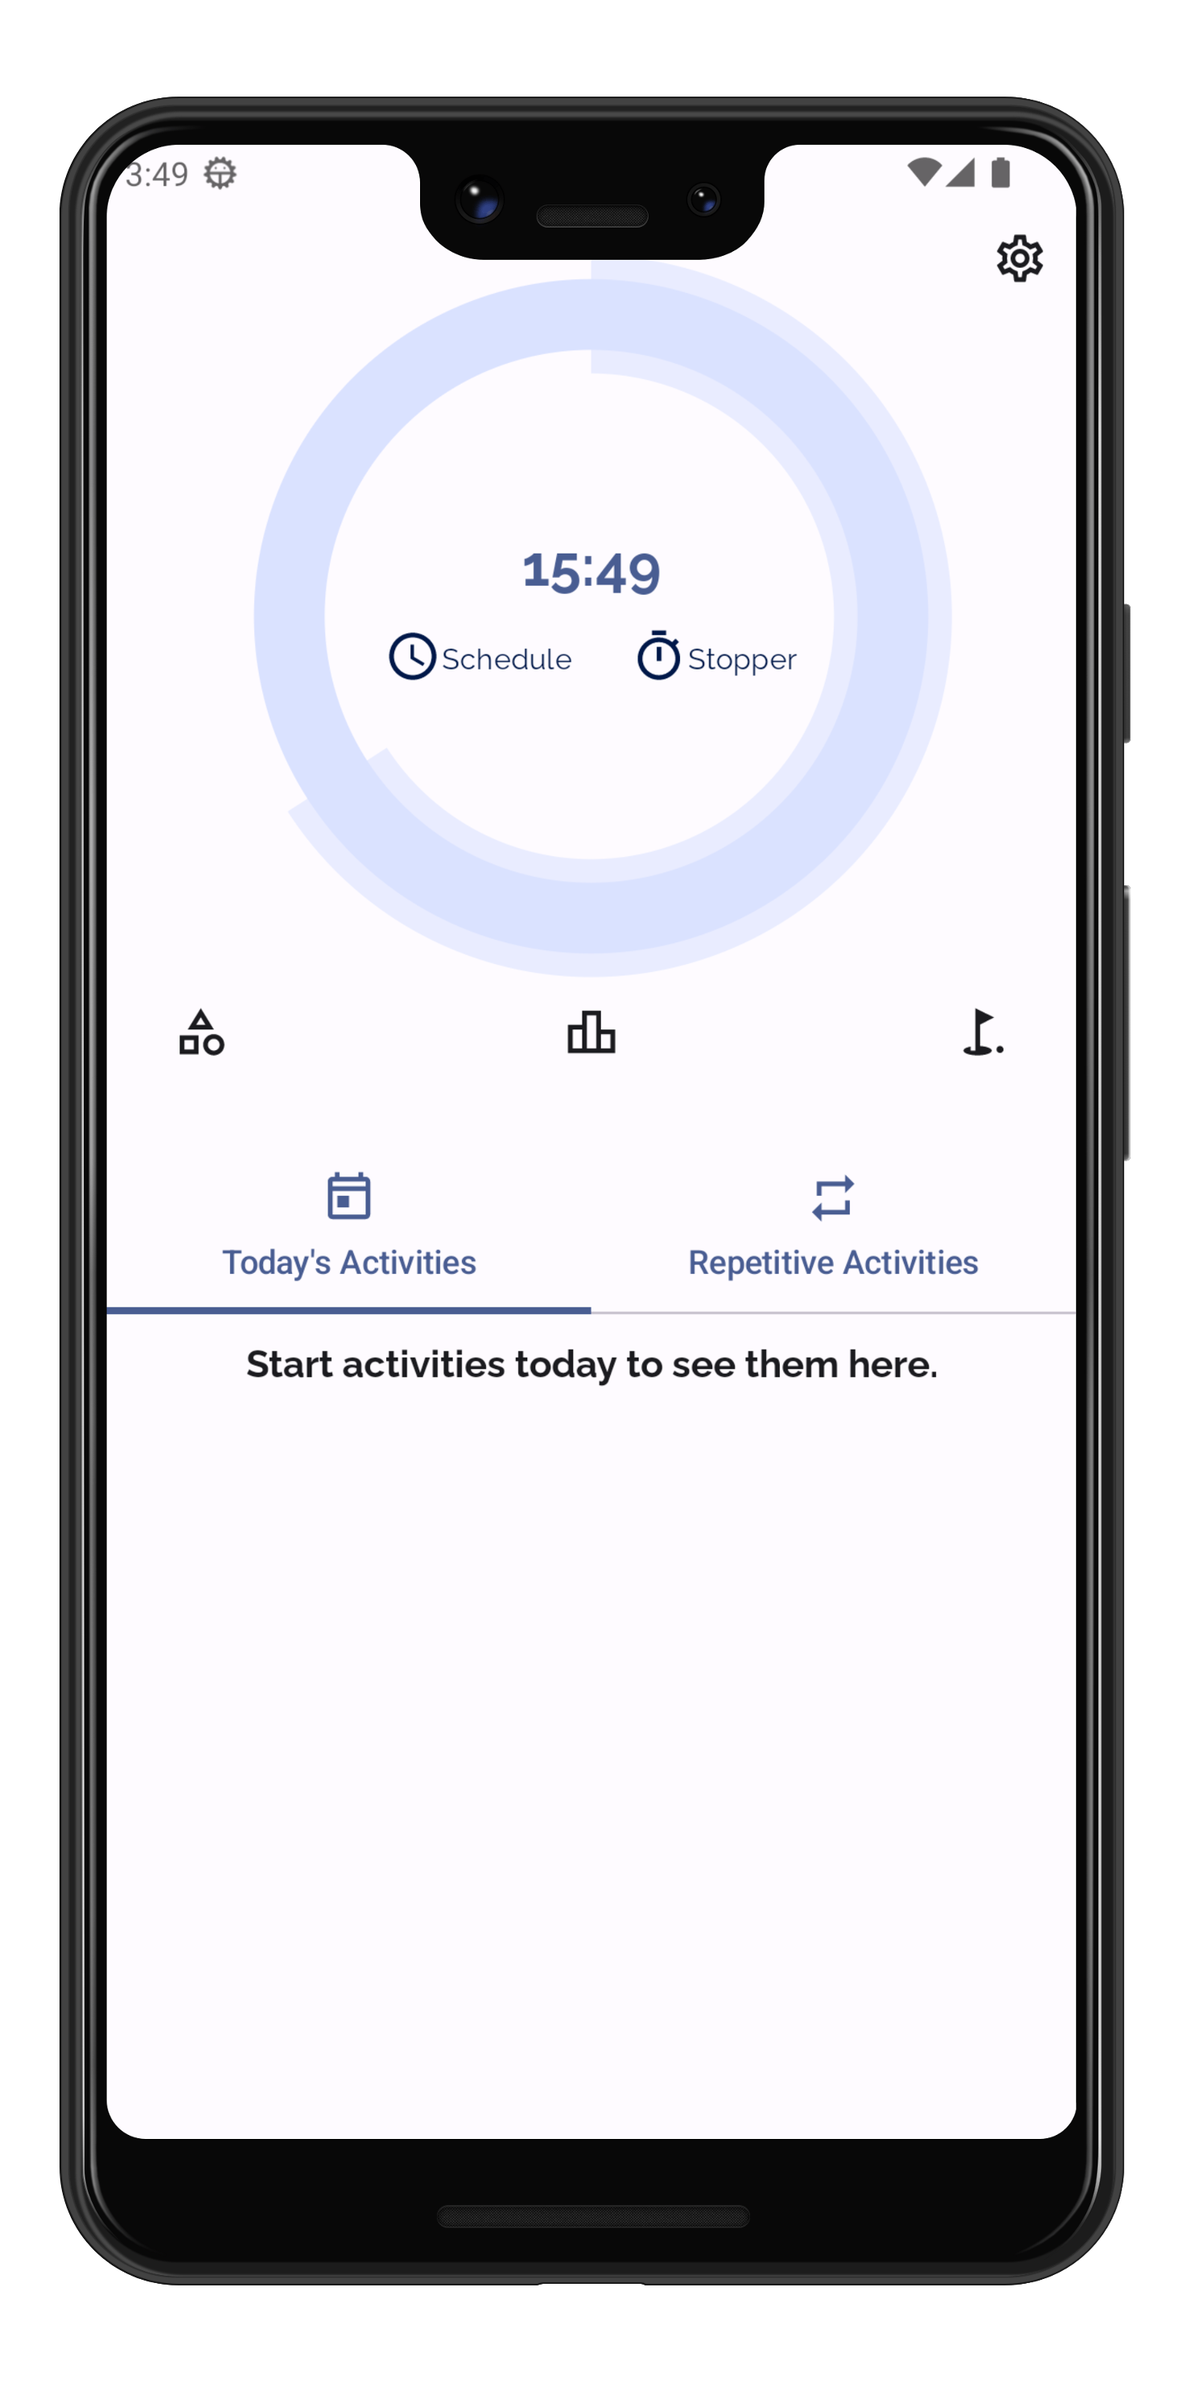
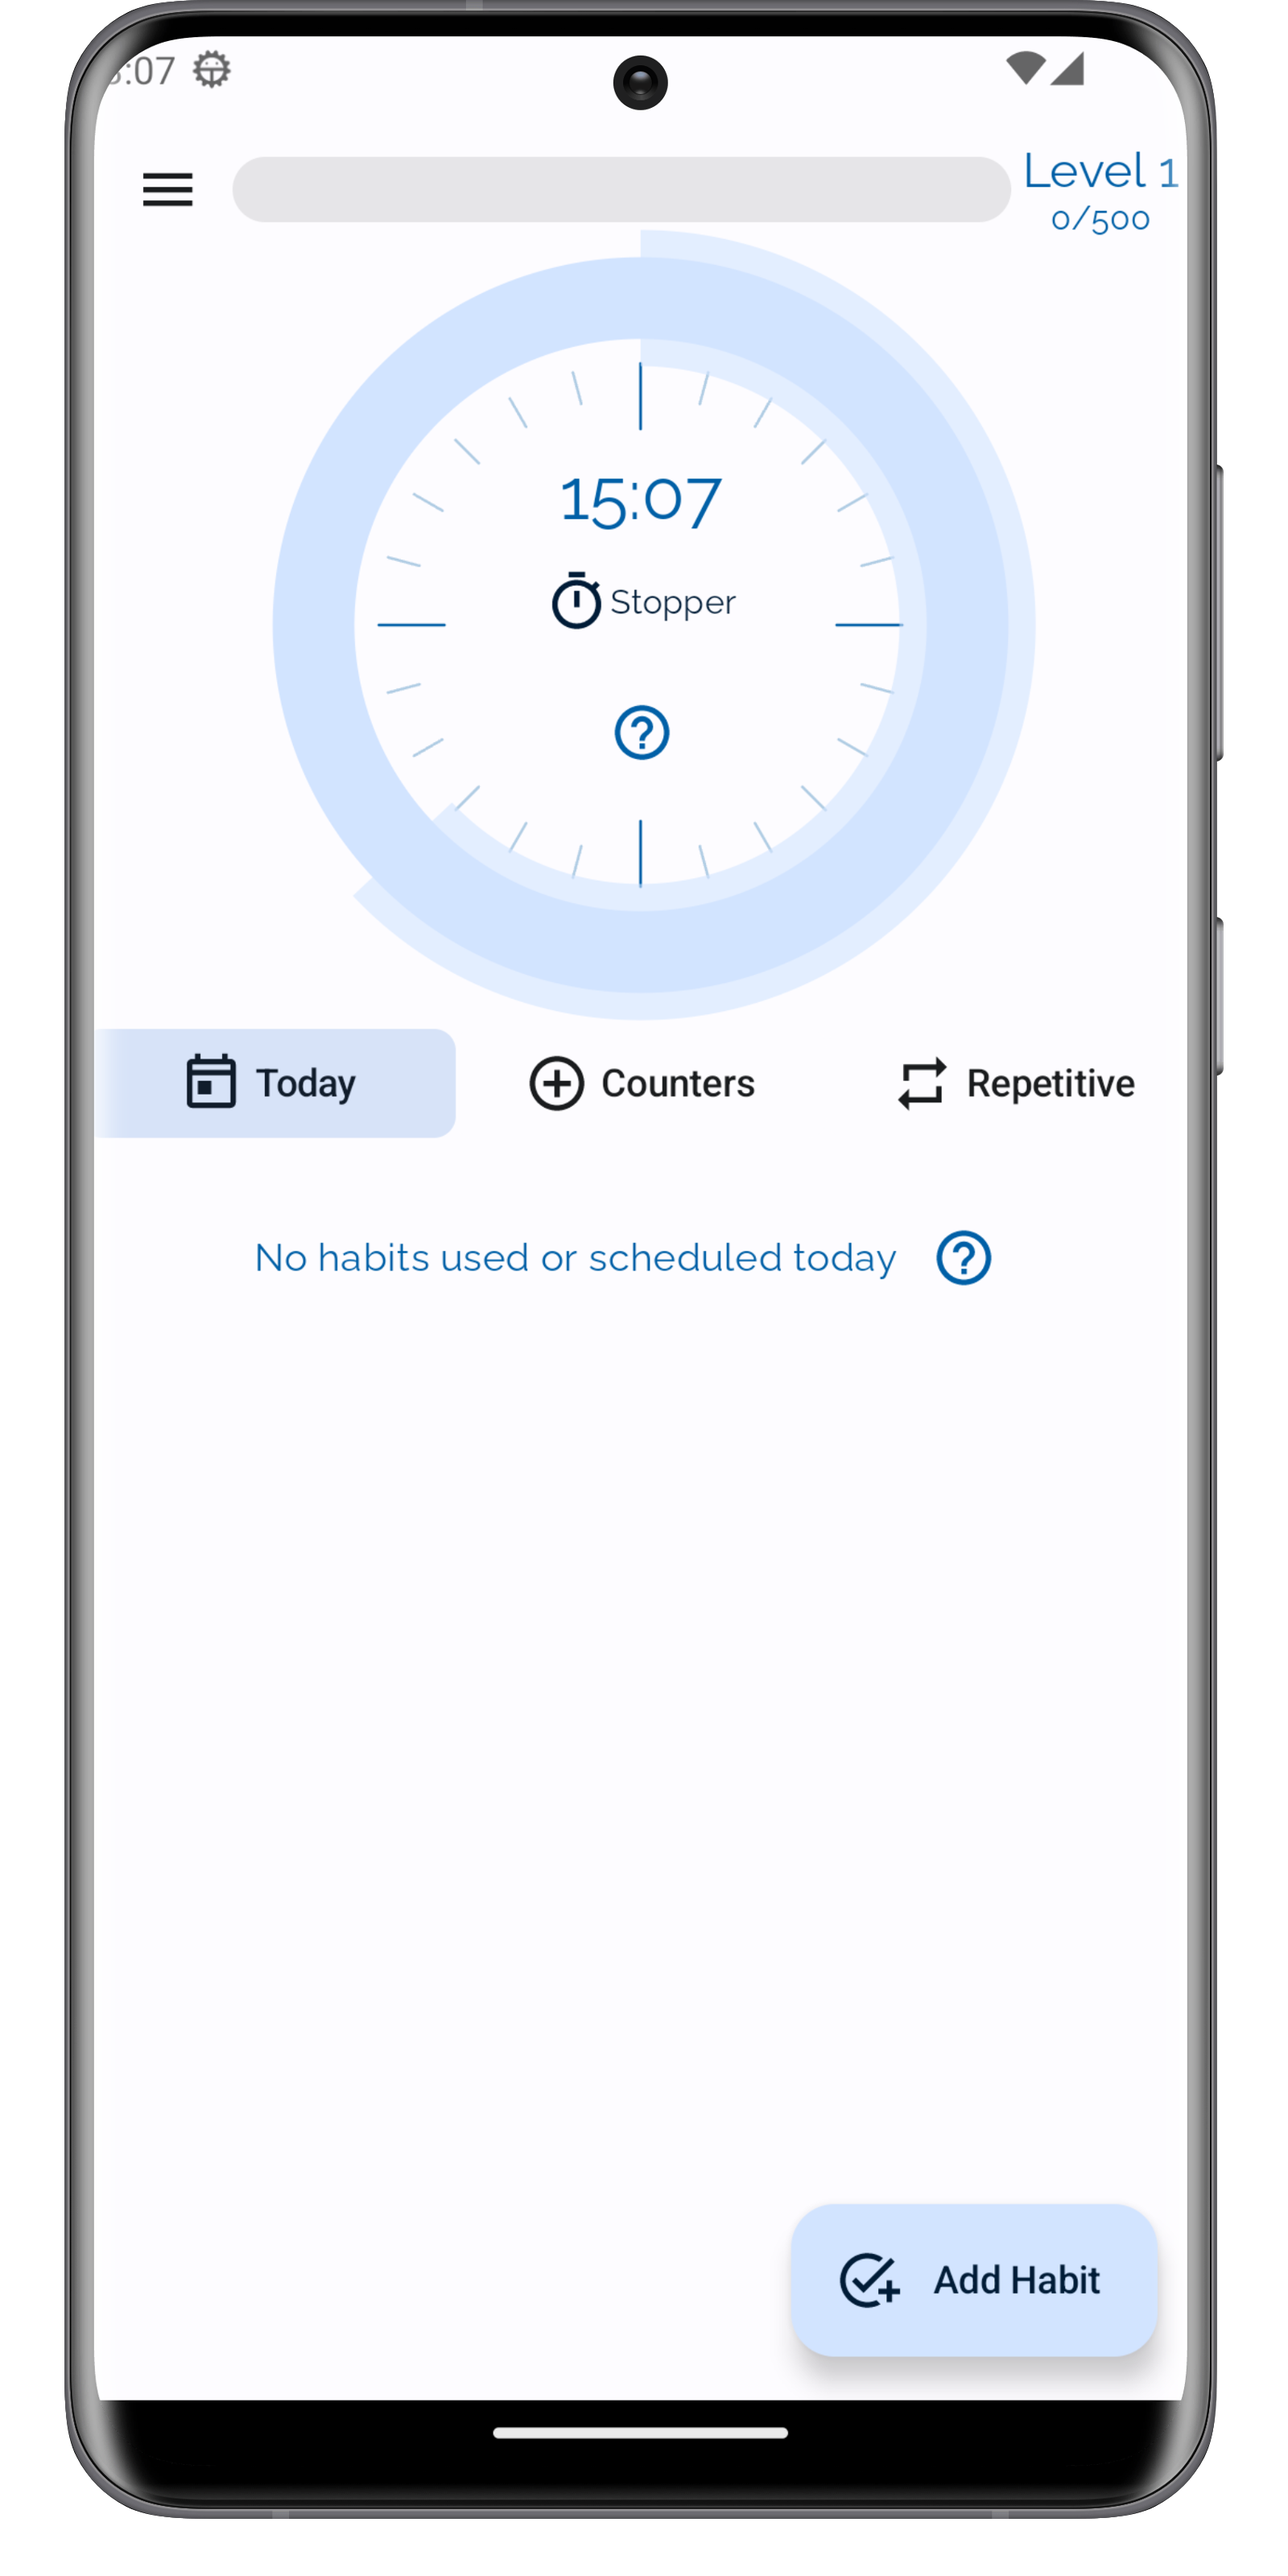
mooncrest v3.3

diff --git a/src/components/Projects.jsx b/src/components/Projects.jsx
@@ -3,61 +3,77 @@ import * as React from 'react';
 import { Stack } from '@mui/system';
 import { Avatar, Typography } from '@mui/material';
 import { useTheme } from '@emotion/react';
-import PDPIcon from '../assets/pdp_icon.png'
-import PDPScreenshot from '../assets/screenshot.png'
 import Kotlin from '../assets/kotlin_icon.png'
-import Firebase from '../assets/firebase.png'
 import TFHIcon from '../assets/twentyfourhours_icon.png'
 import TFHScreenshot from '../assets/tfh_screenshot.png'
+import ProductiveScreenshot from '../assets/productive_screenshot.png'
+import ProductiveIcon from '../assets/productive_icon.png'
 import Database from '../assets/database.png'
+import Firebase from '../assets/firebase.png'
 import Compose from '../assets/compose_icon.png'
+import YouTube from 'react-youtube';
 
 const Projects = () =>{
     const theme = useTheme();
     return(
-        <Stack direction={"column"}  display="flex" mt={10}  id="Projects">
+        <Stack direction={"column"}  display="flex" mt={10}  id="Projects"  alignItems="center" alignSelf={"center"}> 
             <Fade top>
                 <Typography color={theme.palette.primary.onPrimary} variant="h2" sx={{fontWeight: 'bold'}} align="center">
                     My Projects
                 </Typography>
             </Fade>
-            <Stack direction={{xs:"column", md: "row"}} spacing={15} mt={15} alignItems="center" alignSelf={"center"}>
-                <Fade>
-                    <img alt='pdp icon' src={PDPIcon} width="100px" height="100px"/>
-                </Fade>
-                <Stack direction={"column"} spacing={1} alignItems="center" alignSelf={"center"}>
-                    <Typography variant='h4' sx={{fontWeight: 'bold'}}>Pocket Day Planner 2</Typography>
-                    <Typography variant='h6'>A simple app for planning your day easily.</Typography>
-                    <Typography variant='h6'>Made using:</Typography>
-                    <Stack direction={"row"} alignItems="center" alignSelf={"center"}>
-                        <Avatar src={Kotlin}/>
-                        <Avatar src={Firebase}/>
+                <Stack direction={{xs:"column", md: "row"}} spacing={10} mt={10} alignItems="center" alignSelf={"center"}>
+                    <Fade>
+                        <img alt='pdp icon' src={TFHIcon} width="100px" height="100px"/>
+                    </Fade>
+                    <Stack direction={"column"} spacing={1} alignItems="center" alignSelf={"center"}>
+                        <Typography variant='h4' sx={{fontWeight: 'bold'}}>24 Hours</Typography>
+                        <Typography variant='h6'>A modern way of managing your day</Typography>
+                        <Typography variant='h6'>Made using:</Typography>
+                        <Stack direction={"row"} alignItems="center" alignSelf={"center"}>
+                            <Avatar src={Kotlin}/>
+                            <Avatar src={Database}/>
+                            <Avatar src={Compose}/>
+                        </Stack>
+                        <a style={{display: "flex", width: 200}} href='https://play.google.com/store/apps/details?id=com.mooncrest.twentyfourhours'>
+                            <img  alt='Get it on Google Play' style={{display: "flex", width: 200}} src='https://play.google.com/intl/en_us/badges/static/images/badges/en_badge_web_generic.png'/>
+                        </a>
                     </Stack>
-                    <a style={{display: "flex", width: 200}} href='https://play.google.com/store/apps/details?id=com.mooncrest.pocketdayplanner'>
-                        <img  alt='Get it on Google Play' style={{display: "flex", width: 200}} src='https://play.google.com/intl/en_us/badges/static/images/badges/en_badge_web_generic.png'/>
-                    </a>
-                </Stack>
-                <img alt='pdp screenshot' src={PDPScreenshot} width="250px" height="500"/>
+                    <Fade>
+                        <div>
+                            <iframe
+                                width="640"
+                                height="390"
+                                src={`https://www.youtube.com/embed/yjf5YGV6DjM?autoplay=1&loop=1&playlist=yjf5YGV6DjM`}
+                                title="YouTube Video Player"
+                                allowFullScreen
+                            ></iframe>
+                        </div>
+                    </Fade>
             </Stack>
-                <Stack direction={{xs:"column", md: "row"}} spacing={15} mt={15} alignItems="center" alignSelf={"center"}>
-                <Fade>
-                    <img alt='pdp icon' src={TFHIcon} width="100px" height="100px"/>
-                </Fade>
-                <Stack direction={"column"} spacing={1} alignItems="center" alignSelf={"center"}>
-                    <Typography variant='h4' sx={{fontWeight: 'bold'}}>24 Hours</Typography>
-                    <Typography variant='h6'>A modern way of managing your day</Typography>
-                    <Typography variant='h6'>Made using:</Typography>
-                    <Stack direction={"row"} alignItems="center" alignSelf={"center"}>
-                        <Avatar src={Kotlin}/>
-                        <Avatar src={Database}/>
-                        <Avatar src={Compose}/>
-                    </Stack>
-                    <a style={{display: "flex", width: 200}} href='https://play.google.com/store/apps/details?id=com.mooncrest.twentyfourhours'>
-                        <img  alt='Get it on Google Play' style={{display: "flex", width: 200}} src='https://play.google.com/intl/en_us/badges/static/images/badges/en_badge_web_generic.png'/>
-                    </a>
+            <Fade top>
+                <Stack direction={{xs:"column", md: "row"}} spacing={10} mt={10} alignItems="center" alignSelf={"center"}>
+                        <Fade>
+                            <img alt='prdouctive icon' src={ProductiveIcon} width="100px" height="100px"/>
+                        </Fade>
+                        <Stack direction={"column"} spacing={1} alignItems="center" alignSelf={"center"}>
+                            <Typography variant='h4' sx={{fontWeight: 'bold'}}>Productive</Typography>
+                            <Typography variant='h6'>Become a smarter consumer</Typography>
+                            <Typography variant='h6'>Made using:</Typography>
+                            <Stack direction={"row"} alignItems="center" alignSelf={"center"}>
+                                <Avatar src={Kotlin}/>
+                                <Avatar src={Firebase}/>
+                                <Avatar src={Compose}/>
+                            </Stack>
+                            <a style={{display: "flex", width: 200}} href='https://play.google.com/store/apps/details?id=com.mooncrest.productive'>
+                                <img  alt='Get it on Google Play' style={{display: "flex", width: 200}} src='https://play.google.com/intl/en_us/badges/static/images/badges/en_badge_web_generic.png'/>
+                            </a>
+                        </Stack>
+                        <Fade>
+                            <img alt='productive screenshot' src={ProductiveScreenshot} height="600" width="400"/>
+                        </Fade>
                 </Stack>
-                <img alt='tfh screenshot' src={TFHScreenshot} width="250px" height="500"/>
-            </Stack>
+            </Fade>
         </Stack>
     );
 };

diff --git a/src/components/About.jsx b/src/components/About.jsx
@@ -61,7 +61,7 @@ const About = () =>{
                 <Typography>
                 I mainly use Figma for UI\UX, and Kotlin for app development,
                  but I have a wide variety of knowledge in multiple programming languages.</Typography>
-                <Typography>I’m 19 years old, and currently serving my military service at Lahav 433, as a Cyber Analyst.
+                <Typography>I’m 20 years old, and currently serving my military service at Lahav 433, as a Cyber Analyst.
                 </Typography>
                 <Typography>Also, I’m currently studying Computer Science (B.Sc.) at the Open University of Israel.</Typography>
                 

diff --git a/src/App.js b/src/App.js
@@ -15,7 +15,6 @@ function App() {
         <Nav/>
         <Home/>
         <About/>
-        <Skills/>
         <Projects/>
         <Contact/>
       </ThemeProvider>
